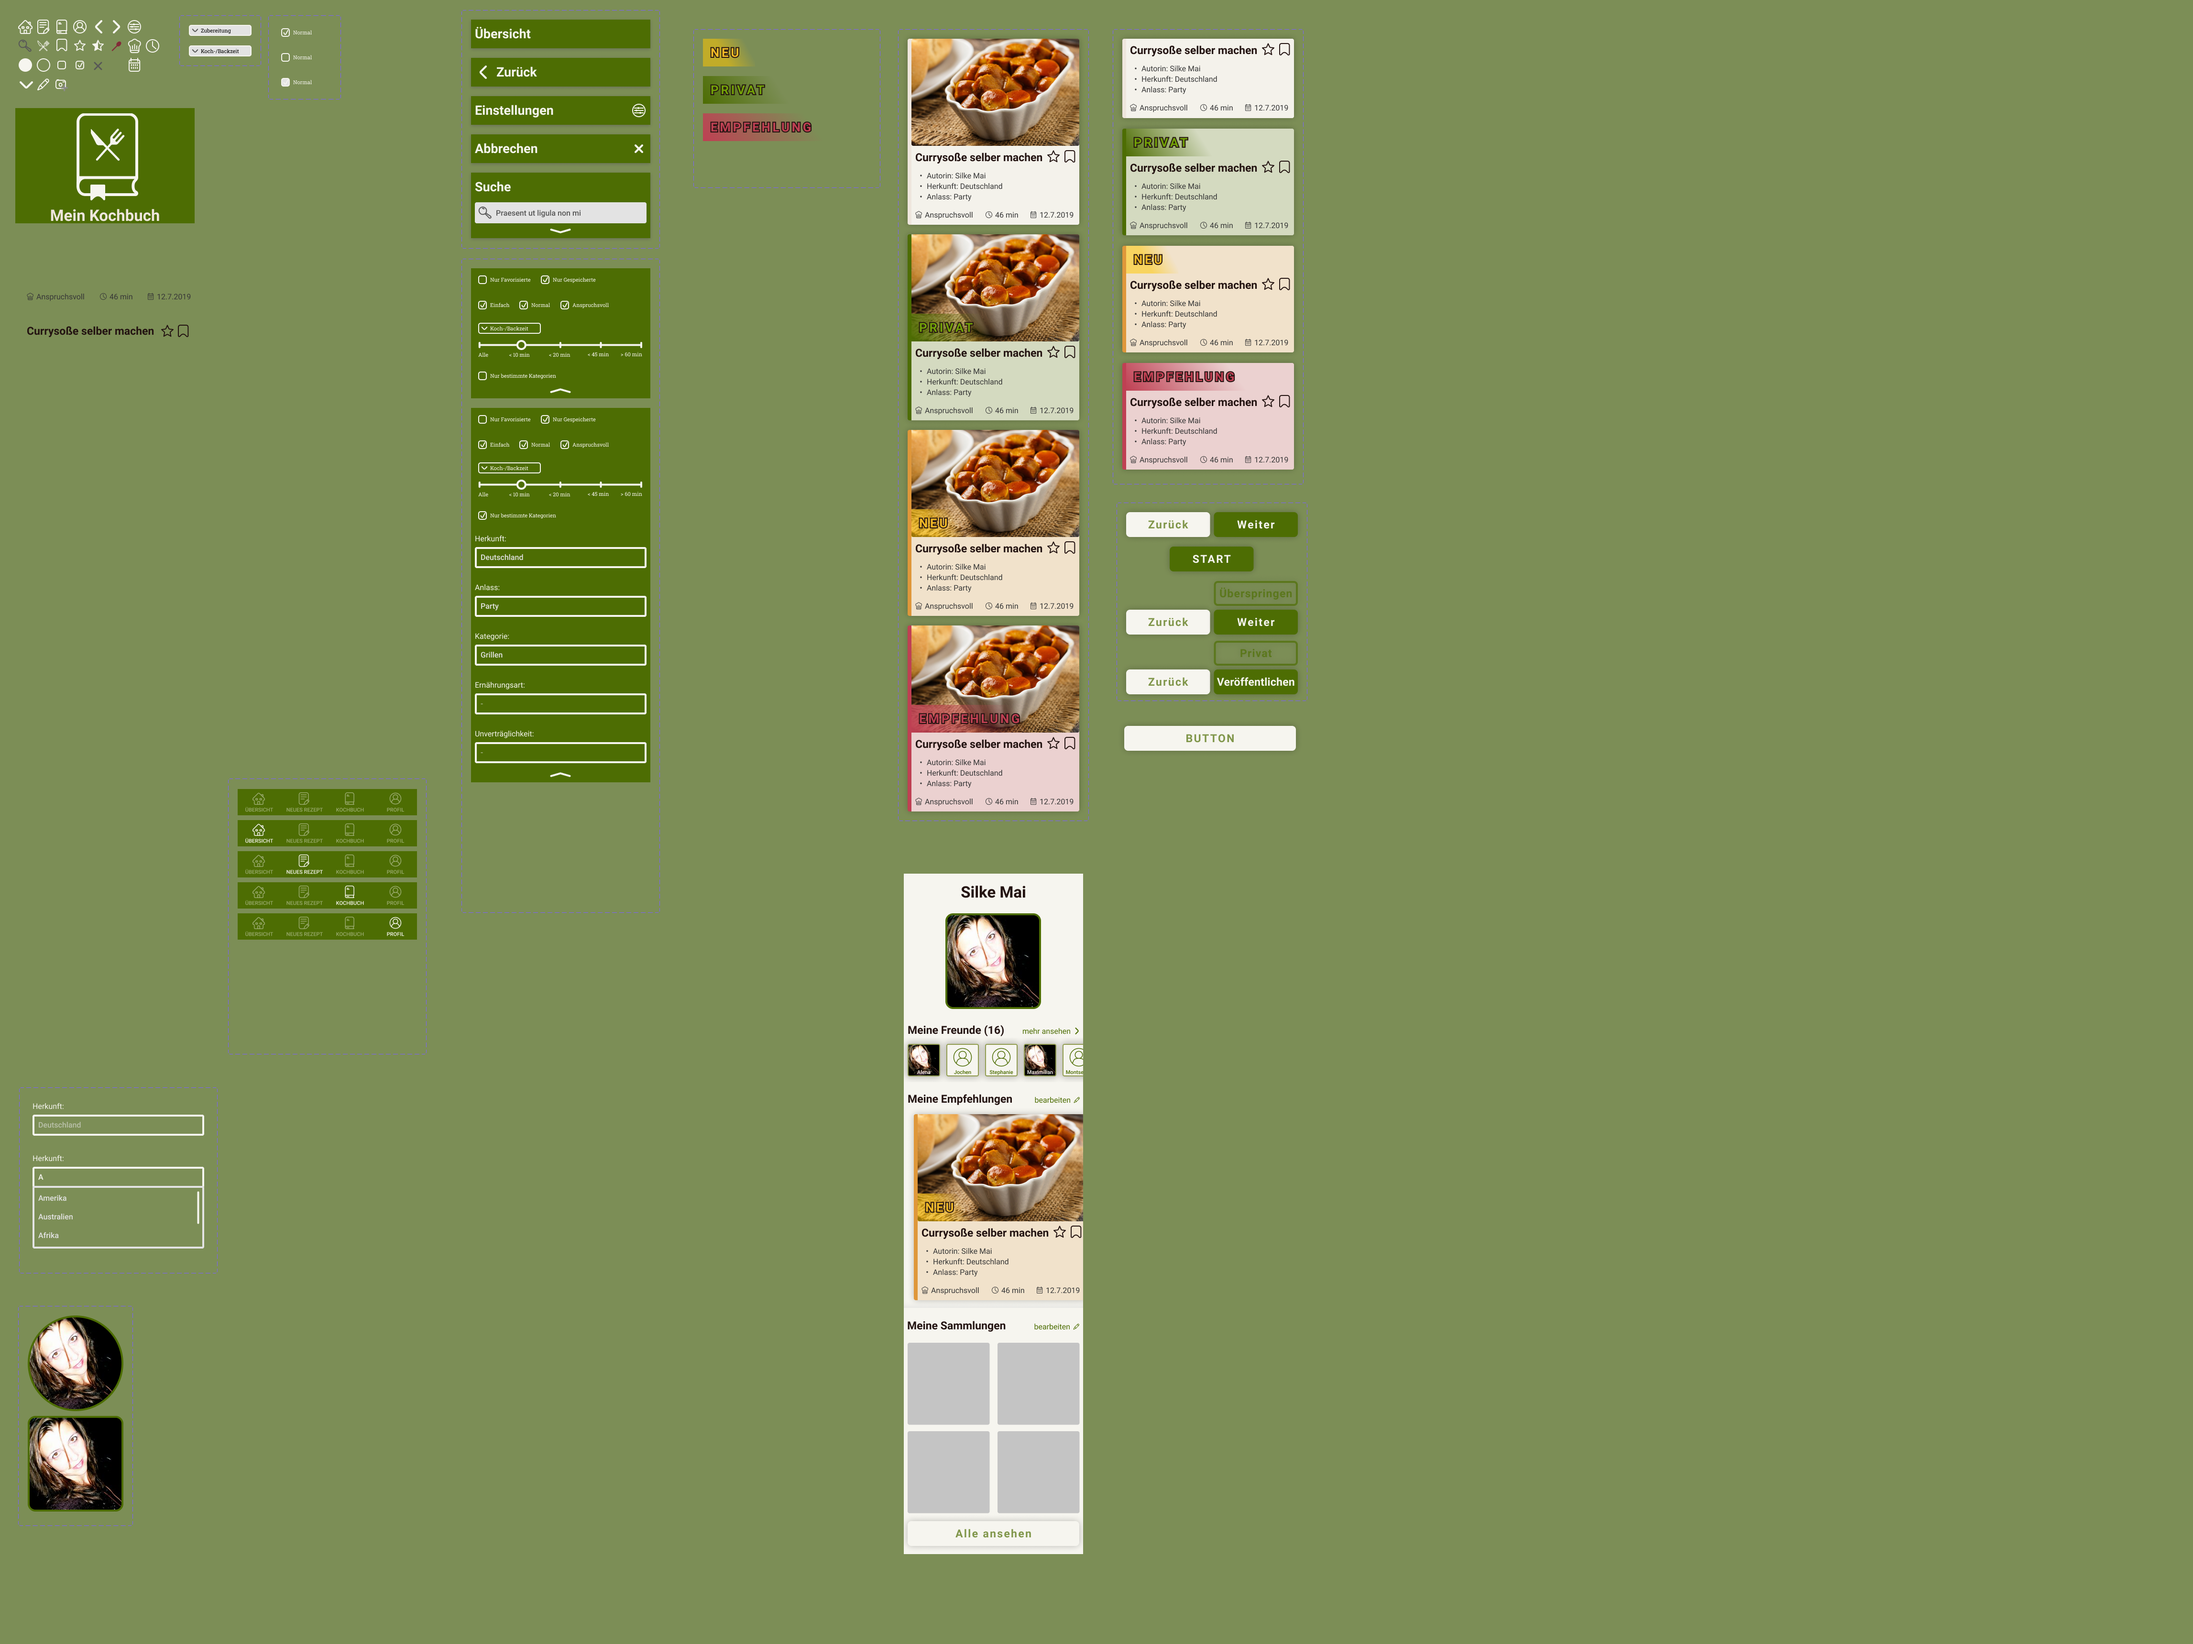
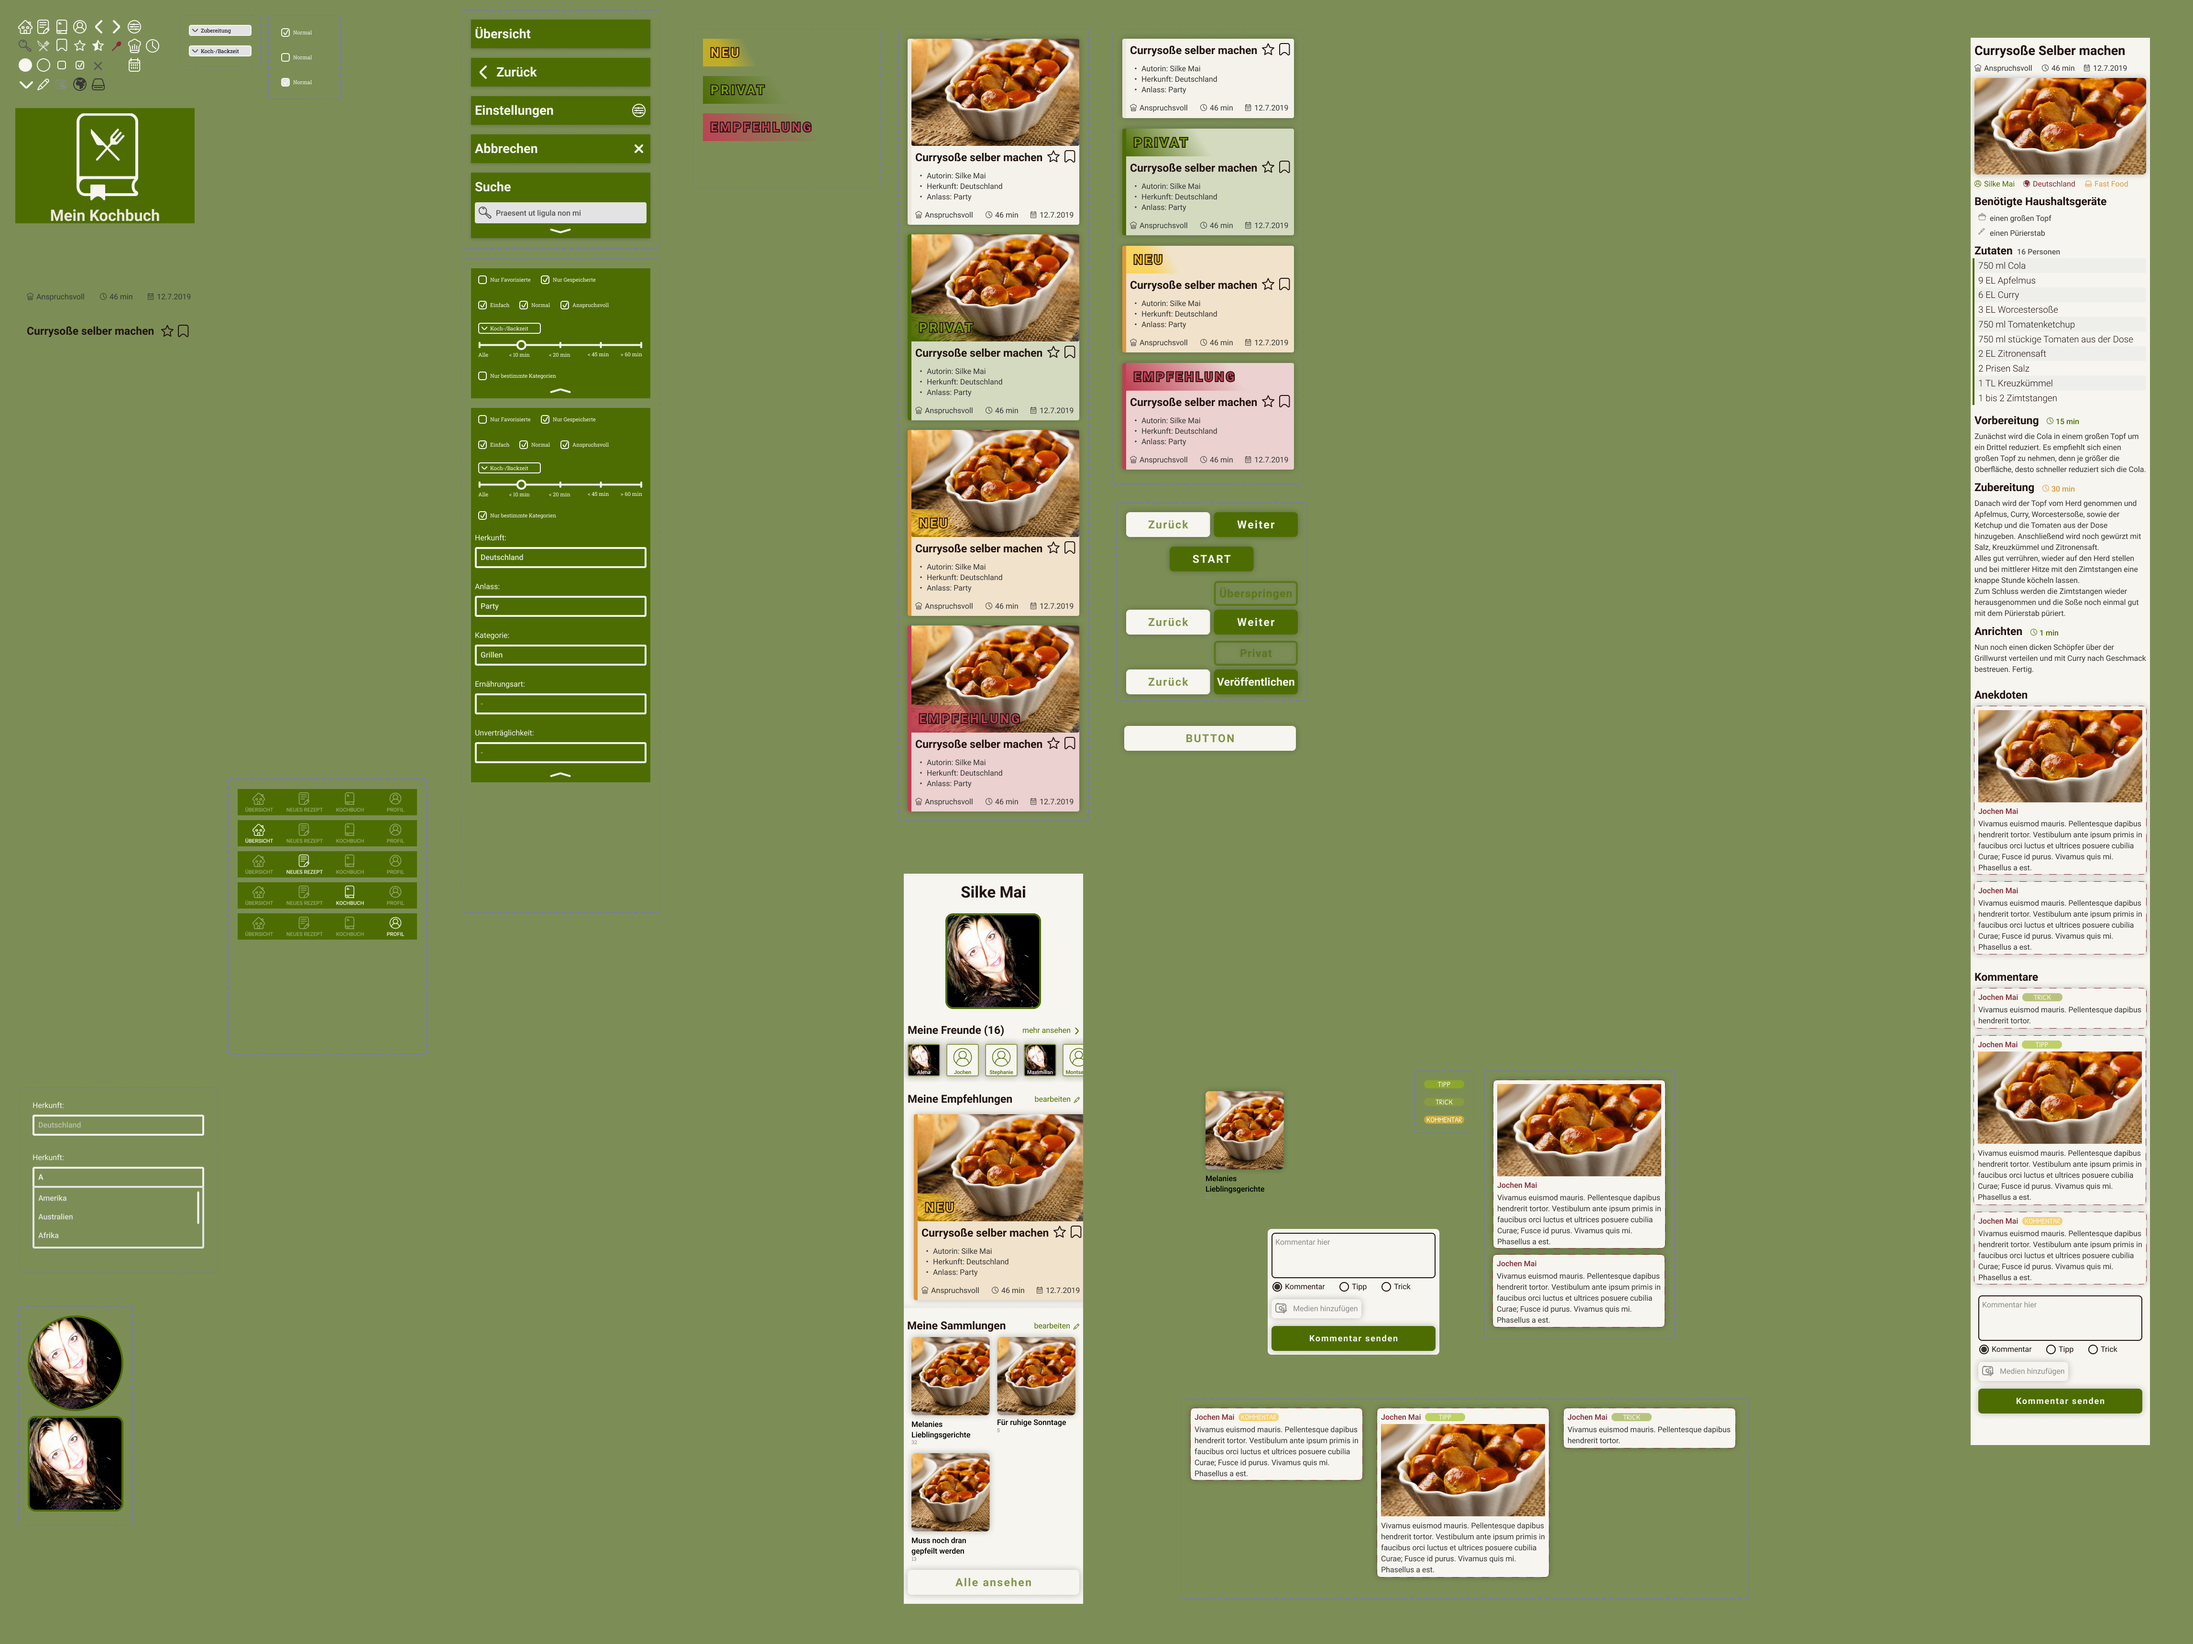
[FEATURE] Add recipe view to prototype

diff --git a/Artefakte/Zeiterfassung/Arbeitsmatrix.md b/Artefakte/Zeiterfassung/Arbeitsmatrix.md
@@ -123,9 +123,9 @@
 | 22       | Interface Design                    | MockUps                                           | [FEATURE]       | Mein Kochbuch Mock Up first iteration                            | 06.09.21        | 12.10.21            |                 | 1,25            |
 | 22       | Interface Design                    | MockUps                                           | [FEATURE]       | Rezeptansicht Mock Up first iteration                            | 06.09.21        | 12.10.21            |                 | 2,50            |
 | 22       | Interface Design                    | MockUps                                           | [TASK]          | Rezeptansicht Mock Up refinement                                 | 06.09.21        | 12.10.21            |                 | 0,50            |
+| 22       | Interface Design                    | MockUps                                           | [FEATURE]       | Rezeptansicht Mock Up finished                                   | 06.09.21        | 12.10.21            |                 | 1,50            |
 |          |                                     |                                                   |                 |                                                                  |                 |                     |                 |                 |
-|          |                                     |                                                   |                 |                                                                  |                 |                     |                 |                 |
-|          | Stunden insgesamt                   | 285,75                                            | Stunden Seminar | 55                                                               | Stunden Projekt | 230,75              |                 |                 |
-|          |                                     |                                                   | Budget:         | 80                                                               | Budget:         | 84,25               |                 |                 |
+|          | Stunden insgesamt                   | 287,25                                            | Stunden Seminar | 55                                                               | Stunden Projekt | 232,25              |                 |                 |
+|          |                                     |                                                   | Budget:         | 80                                                               | Budget:         | 82,75               |                 |                 |
 |          | Kredits erreicht:                   | 10                                                |                 |                                                                  |                 |                     |                 |                 |
 |          | Kredits erfordert:                  | 15                                                |
